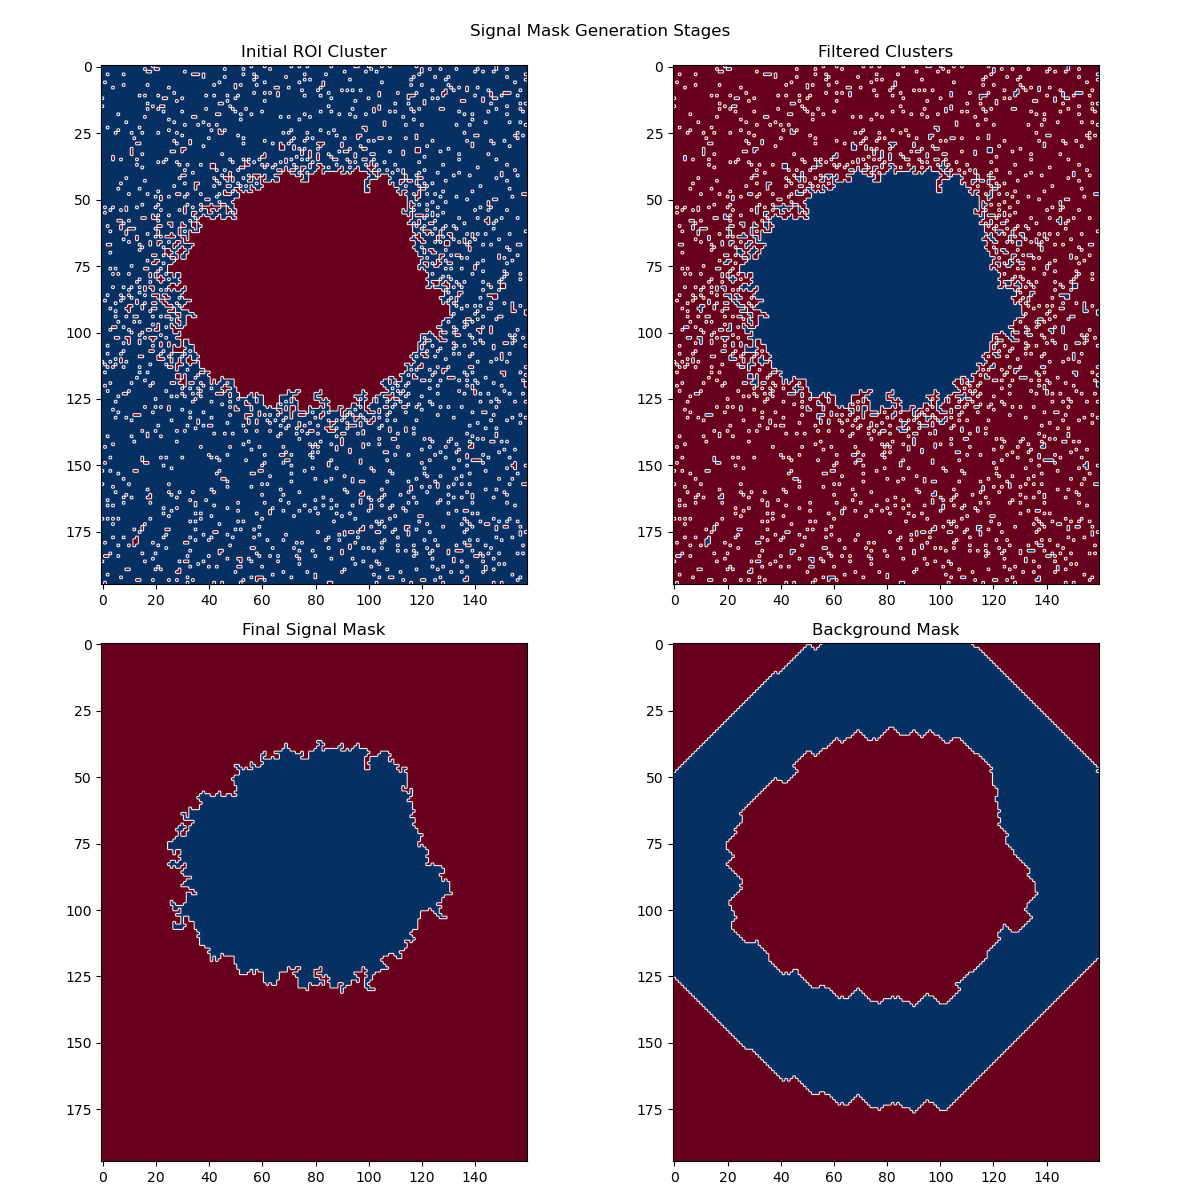
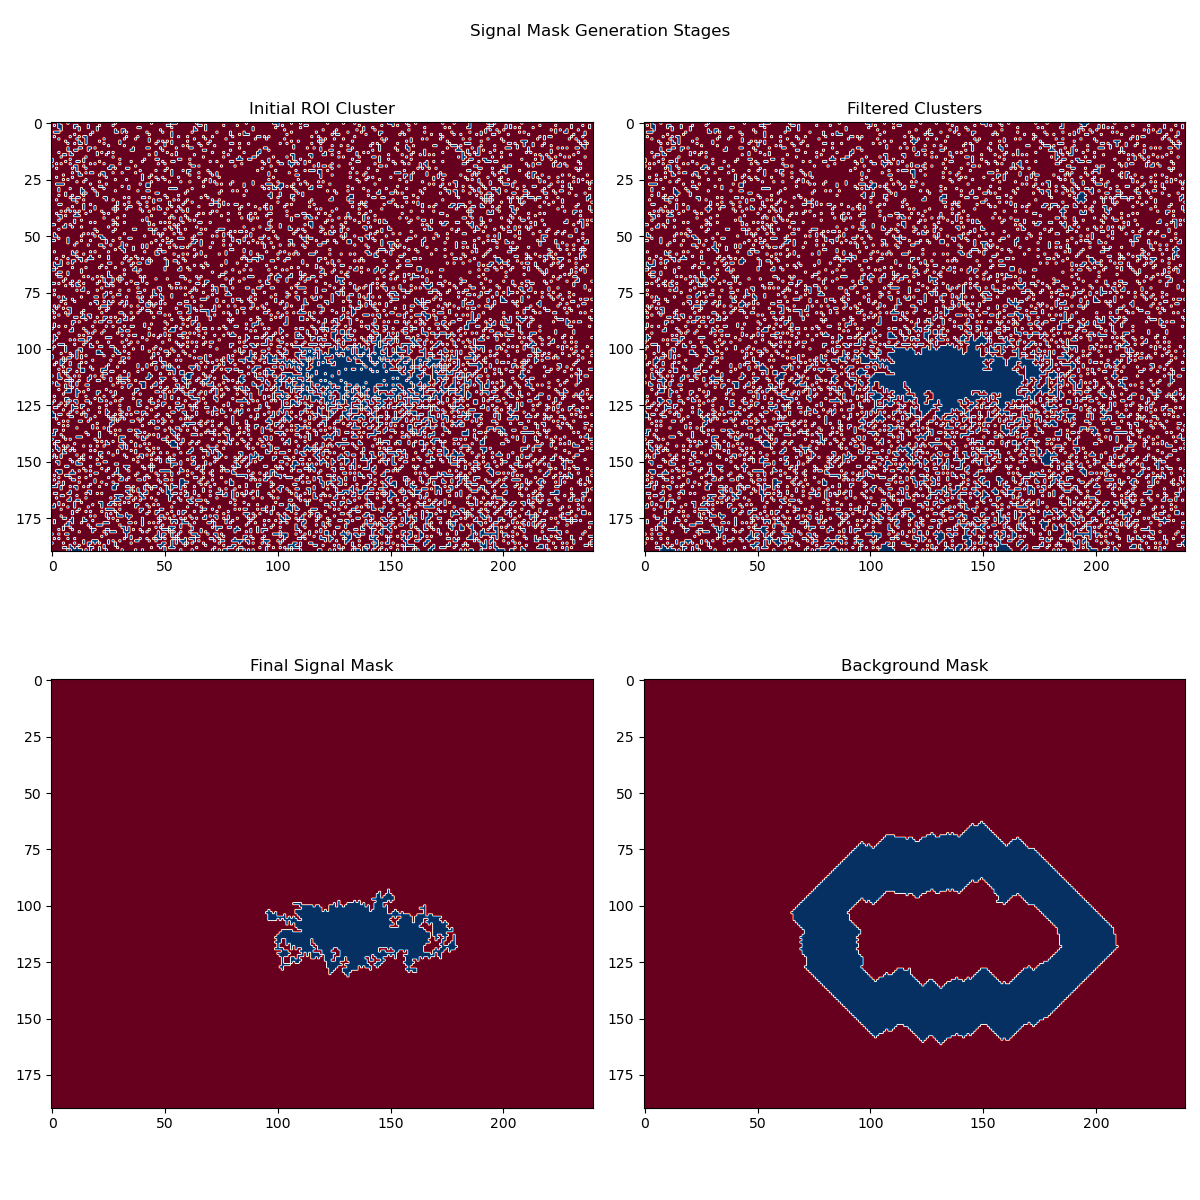
run xppx1003221 analysis

diff --git a/btx/processing/scripts/extract_npz.py b/btx/processing/scripts/extract_npz.py
@@ -1,0 +1,175 @@
+#!/usr/bin/env python3
+"""
+HDF5 Data Extraction Utility for LCLS Data
+Aligned with legacy implementation while maintaining modern structure
+"""
+
+import h5py
+import numpy as np
+from pathlib import Path
+
+
+def apply_energy_filter(frames: np.ndarray, E0: float = 8.8, dE: float = 5.0) -> np.ndarray:
+    """
+    Filter pixel intensities based on energy bands.
+    Zeros out pixels outside the allowed energy ranges.
+    
+    Args:
+        frames: Raw detector frames
+        E0: Central energy in keV (default 8.8)
+        dE: Energy window in keV (default 5.0)
+    """
+    thresh_1, thresh_2 = E0-dE, E0+dE
+    thresh_3, thresh_4 = 2*E0-dE, 2*E0+dE
+    thresh_5, thresh_6 = 3*E0-dE, 3*E0+dE
+    
+    # Create mask for pixels outside allowed energy ranges
+    invalid_mask = ((frames < thresh_1) |
+                   ((frames > thresh_2) & (frames < thresh_3)) |
+                   ((frames > thresh_4) & (frames < thresh_5)) |
+                   (frames > thresh_6))
+    
+    # Zero out invalid pixels
+    filtered_frames = frames.copy()
+    filtered_frames[invalid_mask] = 0
+    
+    return filtered_frames
+
+
+def extract_data_from_h5(
+    filename: str, 
+    output_dir: str, 
+    use_timetool: bool = False,
+    E0: float = 8.8,
+    dE: float = 5.0
+) -> Path:
+    """
+    Extract data from HDF5 file and save to NPZ format.
+    
+    Args:
+        filename: Path to HDF5 file
+        output_dir: Directory to save NPZ file
+        use_timetool: Whether to apply timetool-based filtering
+        E0: Central energy for filtering in keV (default 8.8)
+        dE: Energy window for filtering in keV (default 5.0)
+        
+    Returns:
+        Path: Path to saved NPZ file
+    """
+    # Path mappings in h5 file - aligned with legacy implementation
+    data_paths = {
+        'scanvar': 'enc/lasDelay',       # Corrected delay path
+        'i0': 'ipm2/sum',                # I0 intensity
+        'roi0': 'jungfrau1M/ROI_0_area', # Raw frames
+        'roi0_roi': 'UserDataCfg/jungfrau1M/ROI_0__ROI_0_ROI',  # ROI definition
+        'roi0_mask': 'UserDataCfg/jungfrau1M/mask',  # Updated mask path
+        'tt_amp': 'tt/AMPL',             # Time tool amplitude
+        'xpos': 'ipm2/xpos',             # Beam position
+        'ypos': 'ipm2/ypos',             # Beam position
+        'evr_code_90': 'evr/code_90',    # Laser on events
+        'evr_code_91': 'evr/code_91',    # Laser off events
+    }
+
+    # Define filters with physical bounds
+    filters = {
+        'i0': [200, 20000],           # Intensity filter
+        'xpos': [-0.45, 0.45],        # X position filter
+        'ypos': [-1.6, 0.],           # Y position filter
+    }
+    
+    # Add timetool filter if enabled
+    if use_timetool:
+        filters['tt_amp'] = [0.0, np.inf]
+
+    print("Opening h5 file...")
+    with h5py.File(filename, 'r') as h5:
+        # Get ROI and mask information
+        print("Setting up detector ROI and mask...")
+        roi_indices = h5[data_paths['roi0_roi']][()]
+        idx_tile = roi_indices[0,0]
+        roi_slice_y = slice(roi_indices[1,0], roi_indices[1,1])
+        roi_slice_x = slice(roi_indices[2,0], roi_indices[2,1])
+        
+        # Get correct mask for tile
+        mask = h5[data_paths['roi0_mask']][idx_tile]
+        roi_mask = mask[roi_slice_y, roi_slice_x]
+        
+        # 1. Get base masks using event codes
+        print("Creating base masks from event codes...")
+        laser_on = h5[data_paths['evr_code_90']][:] == 1
+        laser_off = h5[data_paths['evr_code_91']][:] == 1
+        
+        # Initialize masks
+        laser_on_mask = laser_on.copy()
+        laser_off_mask = laser_off.copy()
+
+        # 2. Apply additional filters
+        print("Applying filters...")
+        for key, (min_val, max_val) in filters.items():
+            data = h5[data_paths[key]][:]
+            value_filter = np.logical_and(data > min_val, data < max_val)
+            
+            # Apply filters based on type
+            if key == 'tt_amp':
+                # Timetool filter only applies to laser-on events
+                laser_on_mask = np.logical_and(laser_on_mask, value_filter)
+            else:
+                # All other filters apply to both masks
+                laser_on_mask = np.logical_and(laser_on_mask, value_filter)
+                laser_off_mask = np.logical_and(laser_off_mask, value_filter)
+
+        print(f"After filtering: {np.sum(laser_on_mask)} laser-on shots, "
+              f"{np.sum(laser_off_mask)} laser-off shots")
+
+        # 3. Get delay values
+        print("Getting delay values...")
+        delays = h5[data_paths['scanvar']][:]
+
+        # 4. Get I0 values
+        print("Getting I0 values...")
+        i0 = h5[data_paths['i0']][:]
+
+        # 5. Get detector frames and apply processing
+        print("Loading and processing detector frames...")
+        # Load raw frames
+        frames = h5[data_paths['roi0']][:]
+        print('SHAPE', frames.shape)
+        
+#        # Apply energy filter
+#        print(f"Applying energy filter (E0={E0} keV, dE={dE} keV)...")
+#        frames = apply_energy_filter(frames, E0, dE)
+        
+        # Apply ROI mask
+        frames = frames * (~np.logical_not(roi_mask))
+
+        # Prepare output directory
+        output_path = Path(output_dir)
+        output_path.mkdir(parents=True, exist_ok=True)
+
+        # Extract run number from filename
+        run_number = Path(filename).stem.split('Run')[1][:4]
+        save_path = output_path / f'run{run_number}_extracted.npz'
+
+        print(f"Saving data to {save_path}")
+        np.savez(
+            save_path,
+            frames=frames,
+            delays=delays,
+            I0=i0,
+            laser_on_mask=laser_on_mask,
+            laser_off_mask=laser_off_mask,
+            # Save filter values and mask for reference
+            filter_values={str(k): v for k, v in filters.items()},
+            roi_mask=roi_mask,
+            energy_filter={'E0': E0, 'dE': dE}
+        )
+
+        print("Extraction complete!")
+        return save_path
+
+
+if __name__ == "__main__":
+    # Example usage
+    filename = "/sdf/data/lcls/ds/xpp/xppx1003221/hdf5/smalldata/xppx1003221_Run0195.h5"
+    output_dir = "processed_xppx1003221"
+    extract_data_from_h5(filename, output_dir, use_timetool=True)

diff --git a/btx/processing/scripts/run_pipeline.py b/btx/processing/scripts/run_pipeline.py
@@ -42,6 +42,8 @@ def load_pump_probe_data(
     # Apply ROI cropping
     x1, x2, y1, y2 = roi
     print('roi', roi)
+    fullframes = frames
+    # TODO should swap the coordinate order for consistency with previous versions
     frames = frames[:, y1:y2, x1:x2]
     
     # Create LoadDataInput
@@ -58,7 +60,7 @@ def load_pump_probe_data(
     loader = LoadData(config)
     load_data_output = loader.run(input_data)
     
-    return load_data_output, frames
+    return load_data_output, fullframes
 
 # Configuration
 config = {
@@ -66,10 +68,11 @@ config = {
         'run': 190,
         'exp': 'xppl1030522',
         # different coordinate convention, had to swap
-        'background_roi_coords': [0, 200, 50, 100]
+        'background_roi_coords': [0, 70, 0, 200]
     },
     'load_data': {
-        'roi': [5,105,50,250], 
+        'roi': [10, 250, 10, 200], 
+        #'roi': [5,105,50,250], 
         'energy_filter': [9.0, 5.0],
         'i0_threshold': 1500,
         'time_bin': 2.0,
@@ -83,18 +86,17 @@ config = {
         'num_permutations': 1000
     },
     'calculate_pvalues': {
-        'significance_threshold': 0.05
     },
     'generate_masks': {
-        'threshold': 0.05,
-        'bg_mask_mult': 2.0,
+        'threshold': 0.15,
+        'bg_mask_mult': 4.0,
         'bg_mask_thickness': 5
     },
     'pump_probe_analysis': {
         'min_count': 2,                # Minimum frames per delay bin
         'significance_level': 0.05,     # P-value threshold for significance
-        'Emin': 9.0,                   # Minimum energy threshold (keV)
-        'Emax': float('inf')           # Maximum energy threshold (keV)
+        'Emin': 5.0,                   # Minimum energy threshold (keV)
+        'Emax': 10.           # Maximum energy threshold (keV)
     }
 }
 

diff --git a/btx/processing/tasks/calculate_p_values.py b/btx/processing/tasks/calculate_p_values.py
@@ -21,6 +21,7 @@ class CalculatePValues:
         # Set defaults
         if 'calculate_pvalues' not in self.config:
             self.config['calculate_pvalues'] = {}
+        # TODO  significance_threshold is an undded param and should be removed
         if 'significance_threshold' not in self.config['calculate_pvalues']:
             self.config['calculate_pvalues']['significance_threshold'] = 0.05
 

diff --git a/btx/processing/tasks/measure_emd.py b/btx/processing/tasks/measure_emd.py
@@ -55,6 +55,7 @@ class MeasureEMD:
         y2: int
     ) -> np.ndarray:
         """Calculate average histogram for ROI."""
+        # TODO would median be better? should probably plot both
         roi_histograms = histograms[:, x1:x2, y1:y2]
         return np.mean(roi_histograms, axis=(1, 2))
         
